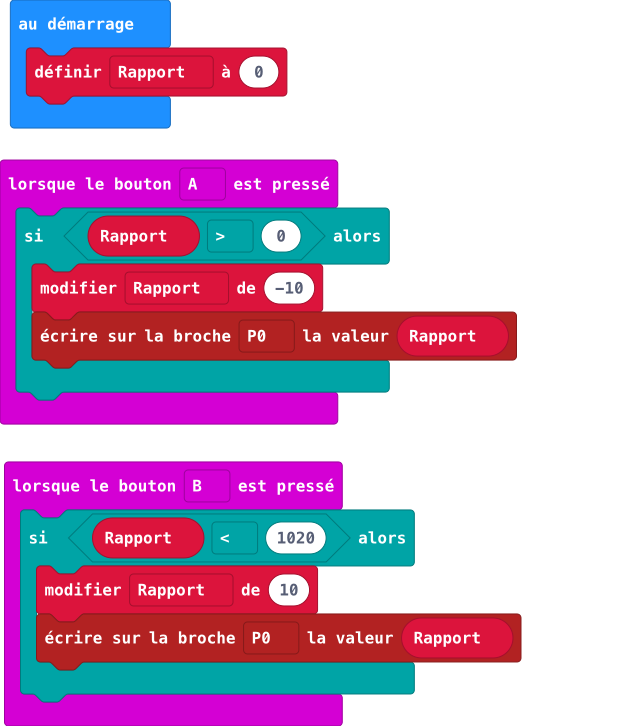
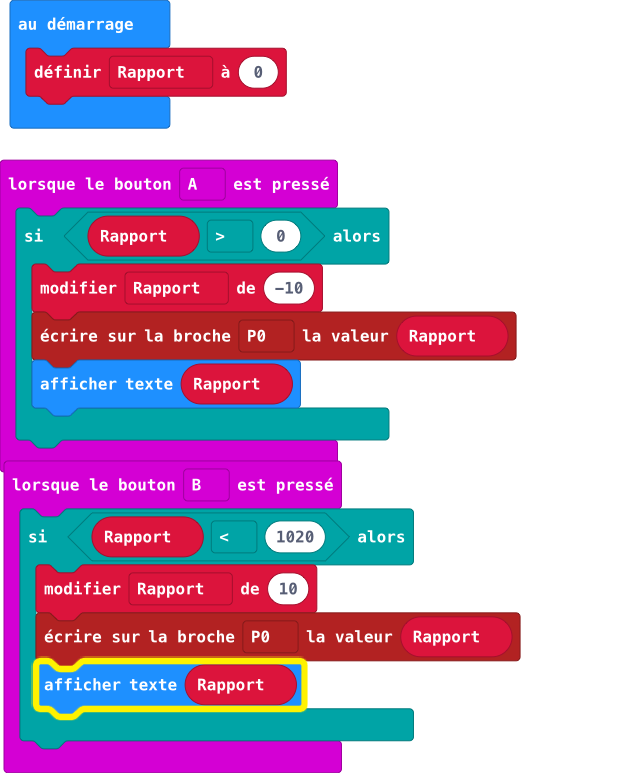
Mise à jour main.blocks, main.ts

diff --git a/main.ts b/main.ts
@@ -2,12 +2,14 @@ input.onButtonPressed(Button.A, function () {
     if (Rapport > 0) {
         Rapport += -10
         pins.digitalWritePin(DigitalPin.P0, Rapport)
+        basic.showString("" + (Rapport))
     }
 })
 input.onButtonPressed(Button.B, function () {
     if (Rapport < 1020) {
         Rapport += 10
         pins.digitalWritePin(DigitalPin.P0, Rapport)
+        basic.showString("" + (Rapport))
     }
 })
 let Rapport = 0
